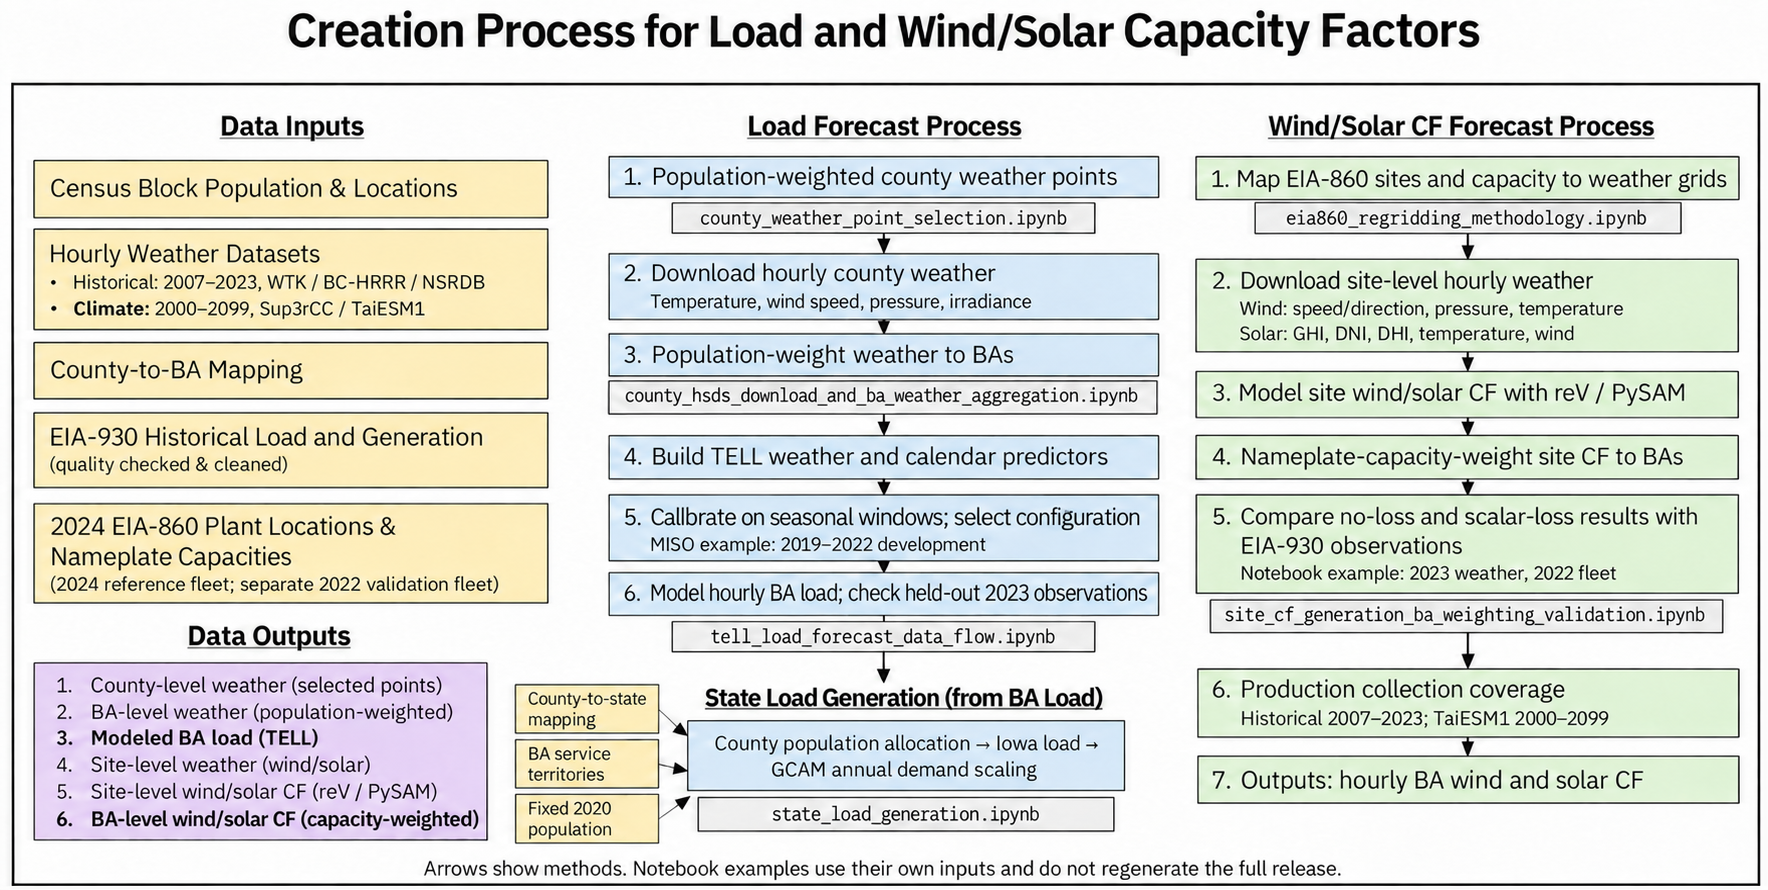
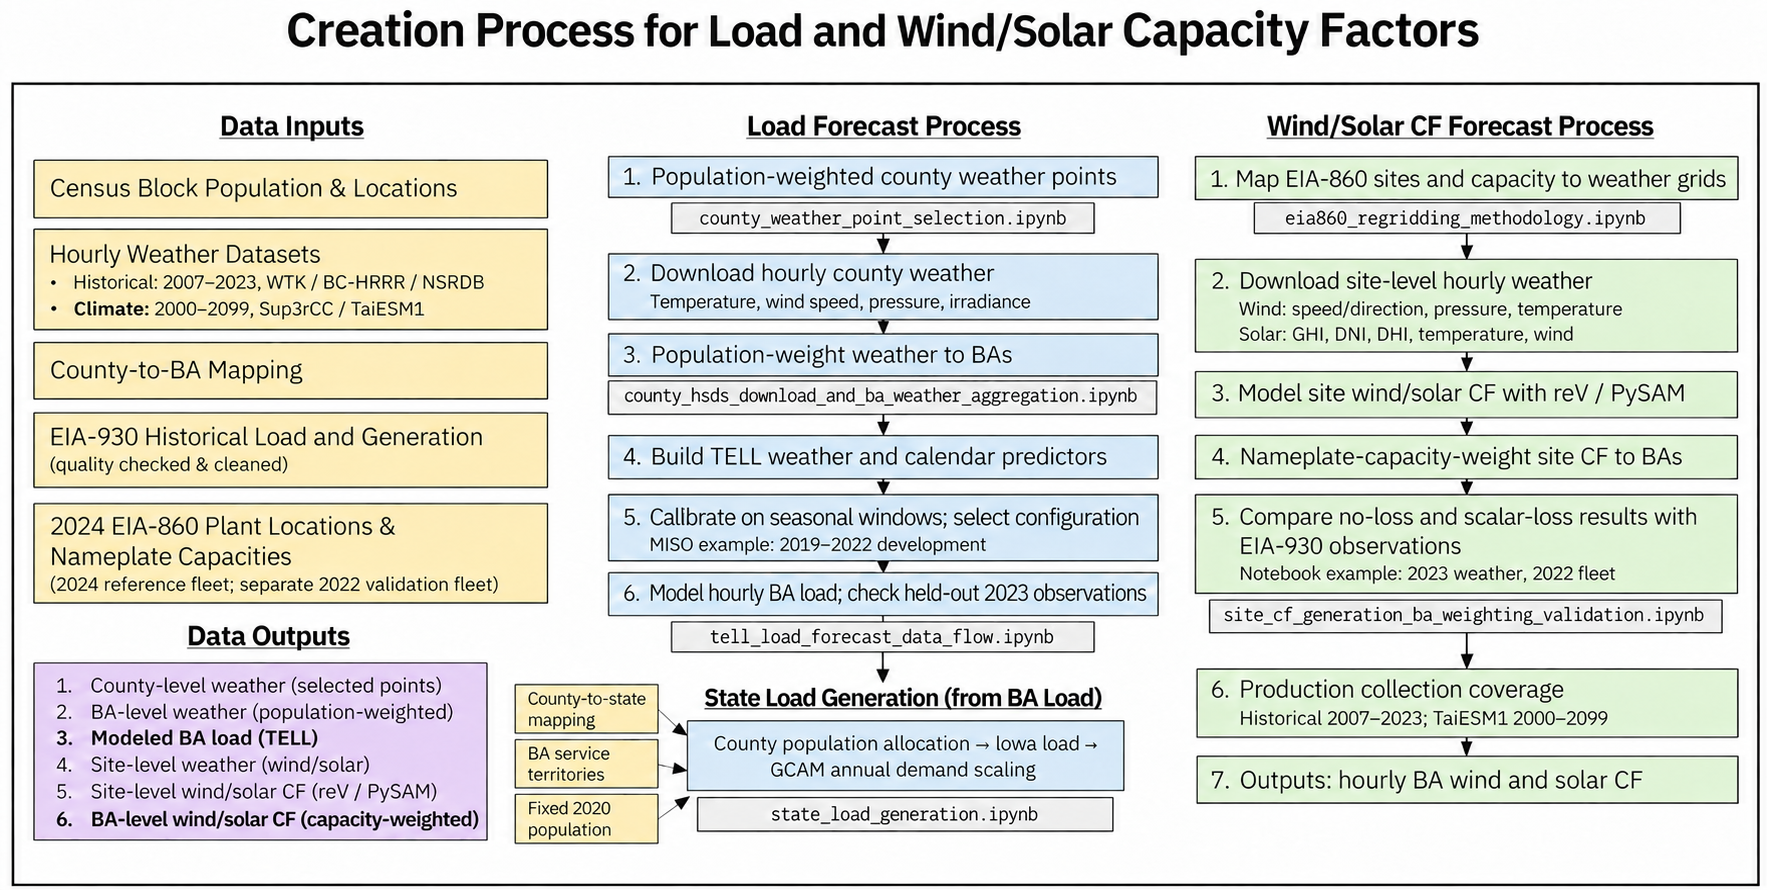
Refresh README diagrams and review PJM observed peak

diff --git a/README.md b/README.md
@@ -16,7 +16,7 @@ The workflow has two branches: weather becomes modeled electricity demand, while
 
 [![Synchronized load and renewable capacity factors feed BA scenarios, geographic pooling, and stress-event catalogs, with notebook filenames labeling the corresponding stages.](process_flow_scenarios_and_events.png)](process_flow_scenarios_and_events.png)
 
-Filenames identify the notebooks linked in the index; click a diagram to enlarge it. Arrows show methodological relationships: each notebook uses its own inputs, so running earlier notebooks is not required.
+Filenames identify the notebooks linked in the index; click a diagram to enlarge it.
 
 <a id="quick-start"></a>
 <a id="install-and-run-the-first-example"></a>
@@ -100,8 +100,8 @@ nameplate capacity has a nonzero CF profile.
 
 Wind and solar values are 2024 nameplate capacities; peak load and its timestamp refer to 2019–2022.
 
-BA peaks use observed hourly demand after the project's existing quality
-screening, without interpolation. Pool peaks use synchronized sums of
+BA peaks use EIA-930 hourly demand after quality screening and review,
+without interpolation. Pool peaks use synchronized sums of
 load-bearing members, retaining only hours when every required member is
 valid. In the peak-load columns, **—** means no usable peak or timestamp.
 Peak load time is the UTC hour of that maximum; exact ties use the earliest
@@ -169,7 +169,7 @@ in the supporting summary.
 | PacifiCorp - East | `PACE` | 9,494.0 | 2022-07-19 00:00 | 3,984.8 | 2,196.4 |
 | PacifiCorp - West | `PACW` | 4,187.0 | 2021-08-12 21:00 | 489.9 | 477.1 |
 | Portland General Electric Company | `PGE` | 4,471.0 | 2021-06-29 00:00 | 716.5 | 189.7 |
-| PJM Interconnection, LLC | `PJM` | 176,085.0 | 2020-07-29 21:00 | 11,451.6 | 14,791.3 |
+| PJM Interconnection, LLC | `PJM` | 152,315.0 | 2019-07-19 22:00 | 11,451.6 | 14,791.3 |
 | Public Service Company of New Mexico | `PNM` | 2,787.0 | 2022-07-20 00:00 | 2,569.0 | 1,784.0 |
 | Public Service Company of Colorado | `PSCO` | 9,853.0 | 2021-07-29 00:00 | 4,692.3 | 2,116.3 |
 | Puget Sound Energy | `PSEI` | 5,431.0 | 2019-02-06 17:00 | 868.4 | 15.5 |
